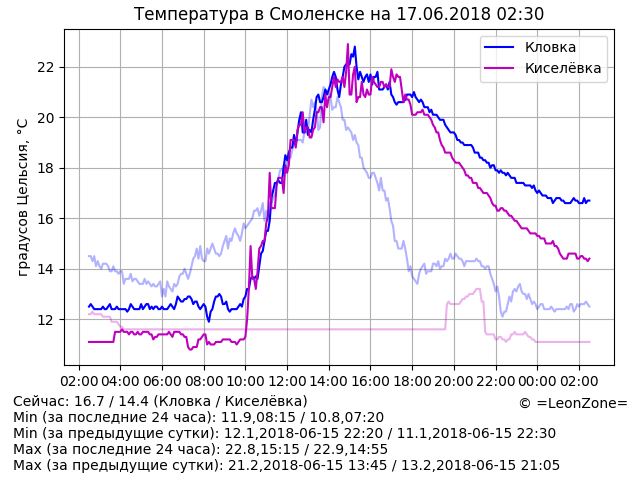
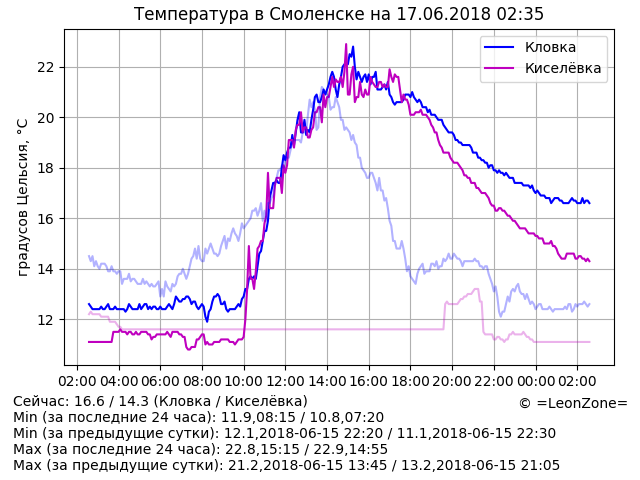
Update data

diff --git a/index.html b/index.html
@@ -14,7 +14,7 @@
 	<p align="center"><script>document.write("<img src=\"graph.png?rnd="+Math.random()+"\" alt=\"Температура в Смоленске\" align=\"middle\" width=\"640\" height=\"480\" />")</script>
 	<p hidden="true">
 <!-- textinfo -->
-Сейчас: 16.7 / 14.4 (Кловка / Киселёвка)
+Сейчас: 16.6 / 14.3 (Кловка / Киселёвка)
 Min (за последние 24 часа): 11.9,08:15 / 10.8,07:20
 Min (за предыдущие сутки): 12.1,2018-06-15 22:20 / 11.1,2018-06-15 22:30
 Max (за последние 24 часа): 22.8,15:15 / 22.9,14:55
